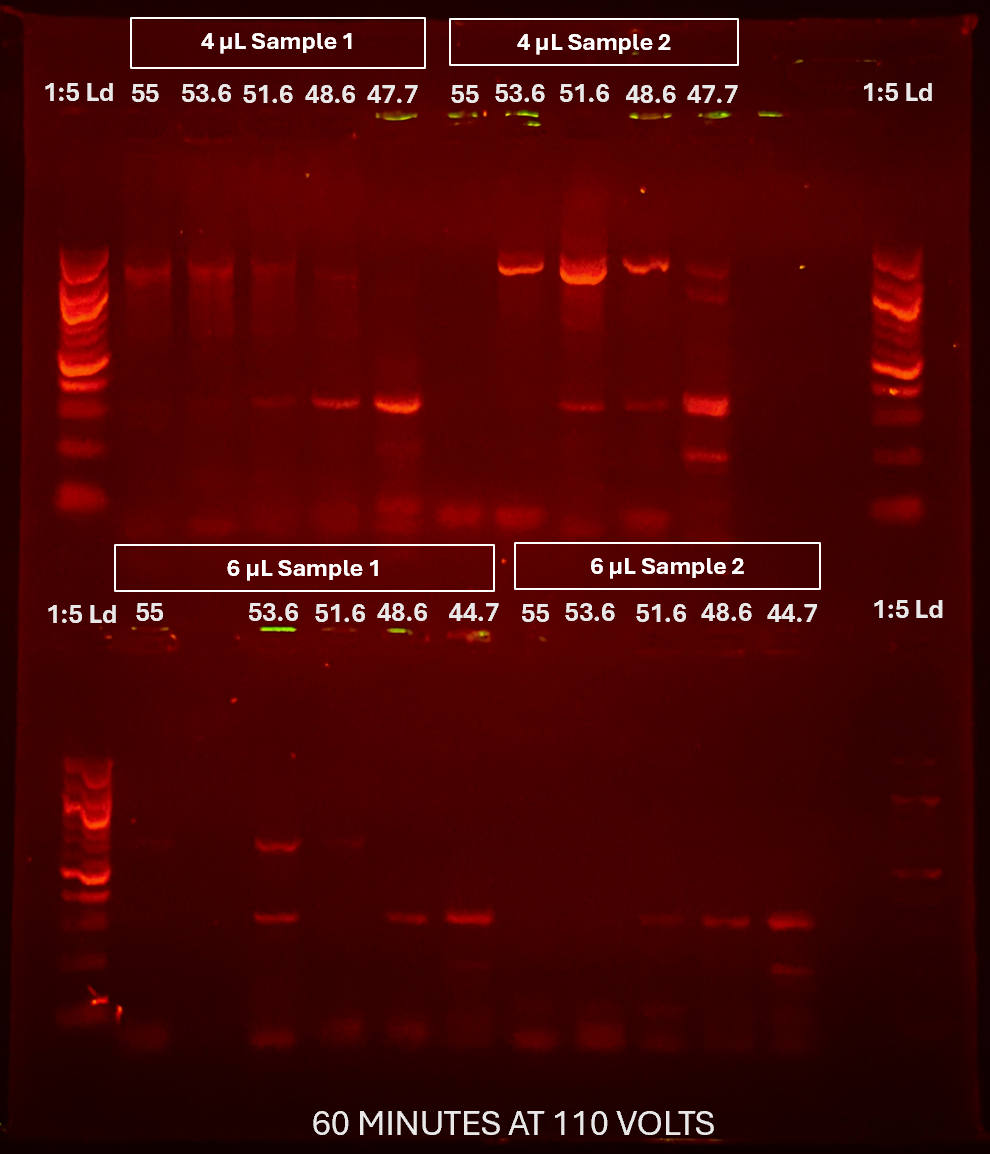
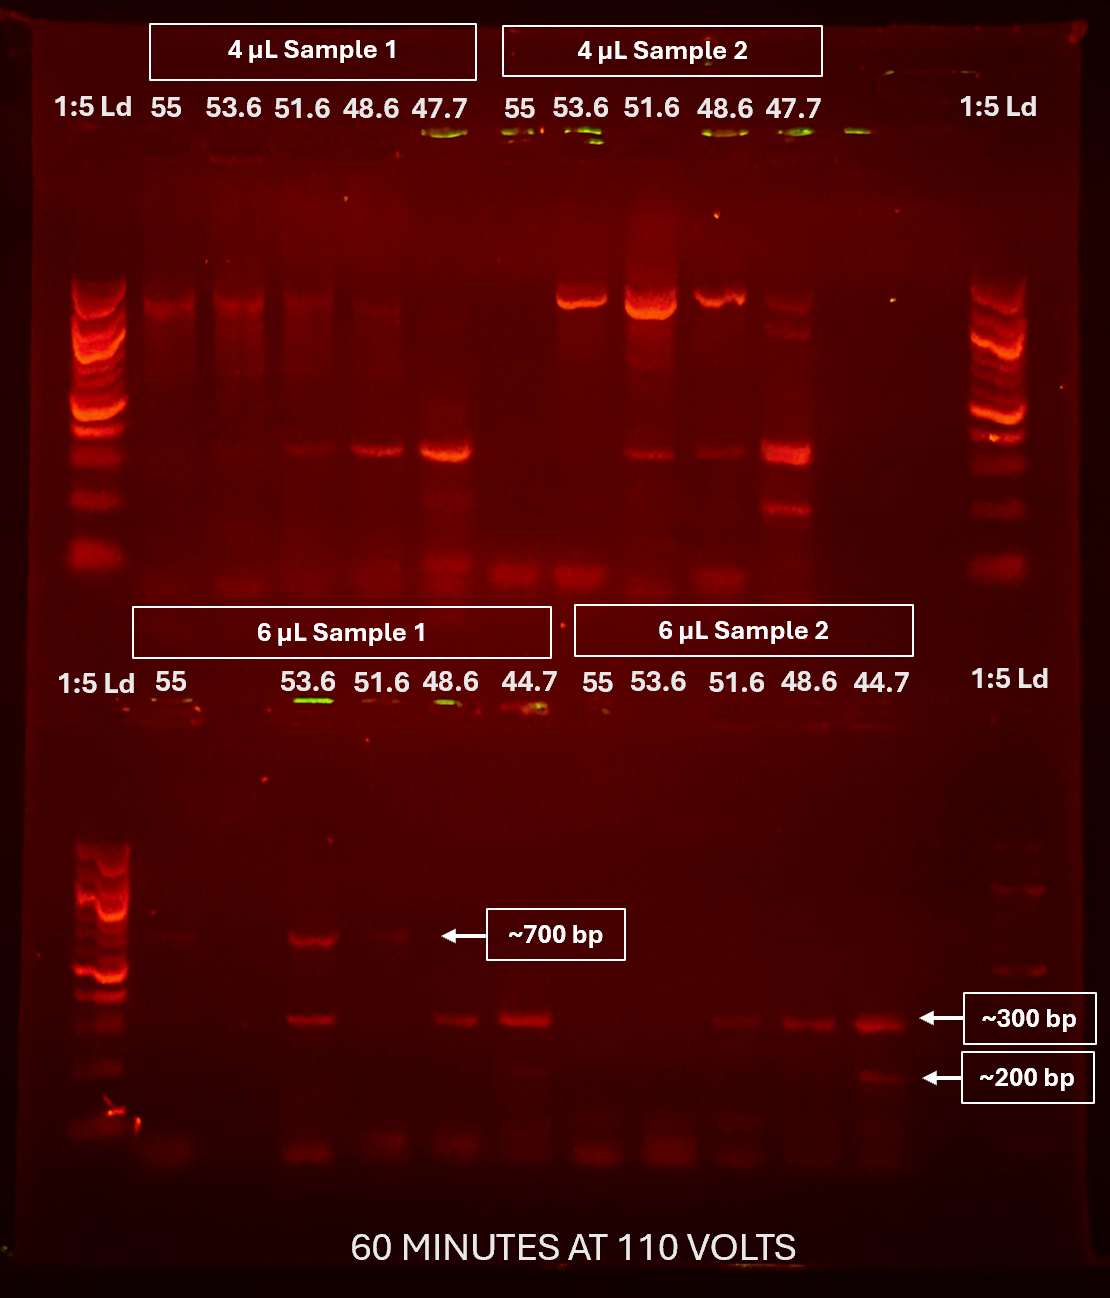
vault backup: 2025-09-26 09:40:00

diff --git a/Notes/Meeting Notes/Fall 2025.md b/Notes/Meeting Notes/Fall 2025.md
@@ -29,8 +29,7 @@
 ### Caleb's Email Response notes 
 Recieved on 9/18
 - psbAncr can show intragenomic variation, usually less pronounced than ITS2
-- Multiple psbA variants can exist in one organism (e.g., Cladocopium infistulum, a clam symbiont, with 5+ variants)
-- Minor variants typically appear as small nucleotide changes or indels, not usually visible as separate bands on gels
+	- Intragenomic variation: multiple slightly different copies of the psbA ncr exist within a single symbiont genome; differences are usually small (SNPs or indels) and typically do not produce separate gel bands.
 - Smaller bands (e.g., 300 bp) may result from PCR artifacts or host DNA amplification; in rare cases, they could reflect multiple psbA variants
 - The expected psbAncr amplicon size is generally 700–1400 bp; the 700 bp band is likely the correct target so he suggests to sequence it and see what that yields 
 ## 9/10/2025 w/ Caroline & Brooke

diff --git a/PAN_BDT/psbA/9.2.2025 - Troubleshooting.md b/PAN_BDT/psbA/9.2.2025 - Troubleshooting.md
@@ -5,6 +5,7 @@
 #### Reaction Notes:
 *In reaction 2_4A I accidentally used 6 μL of DNA load
 ### September 5 2025 Gel Image
+
 ![](psbA%20Gel%20Images/Sept5_2025_Gel.png)
 
 *Notes:*
